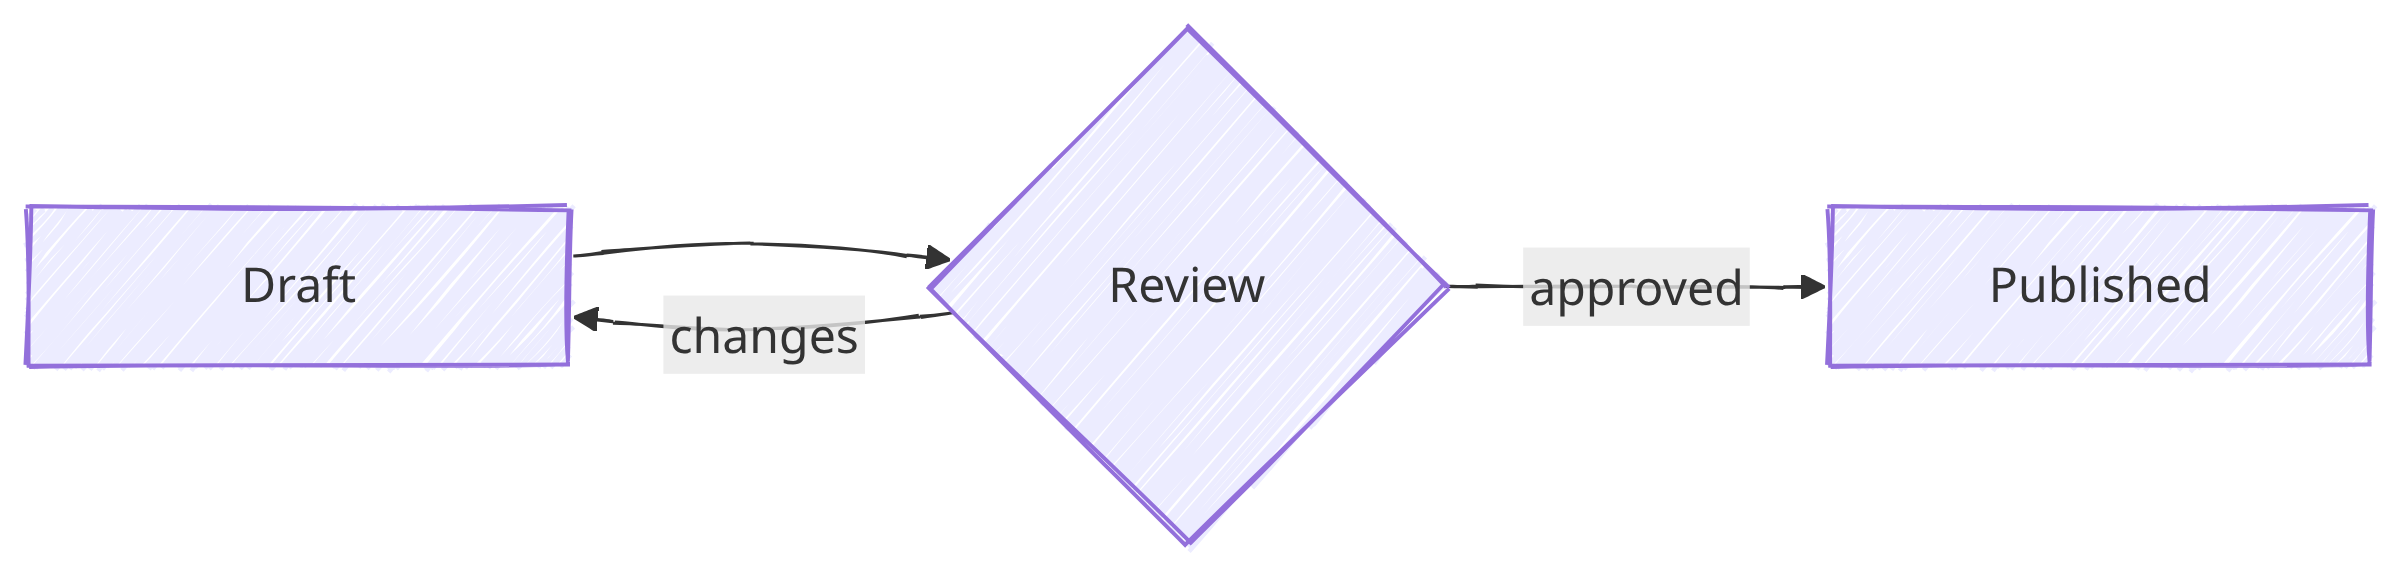
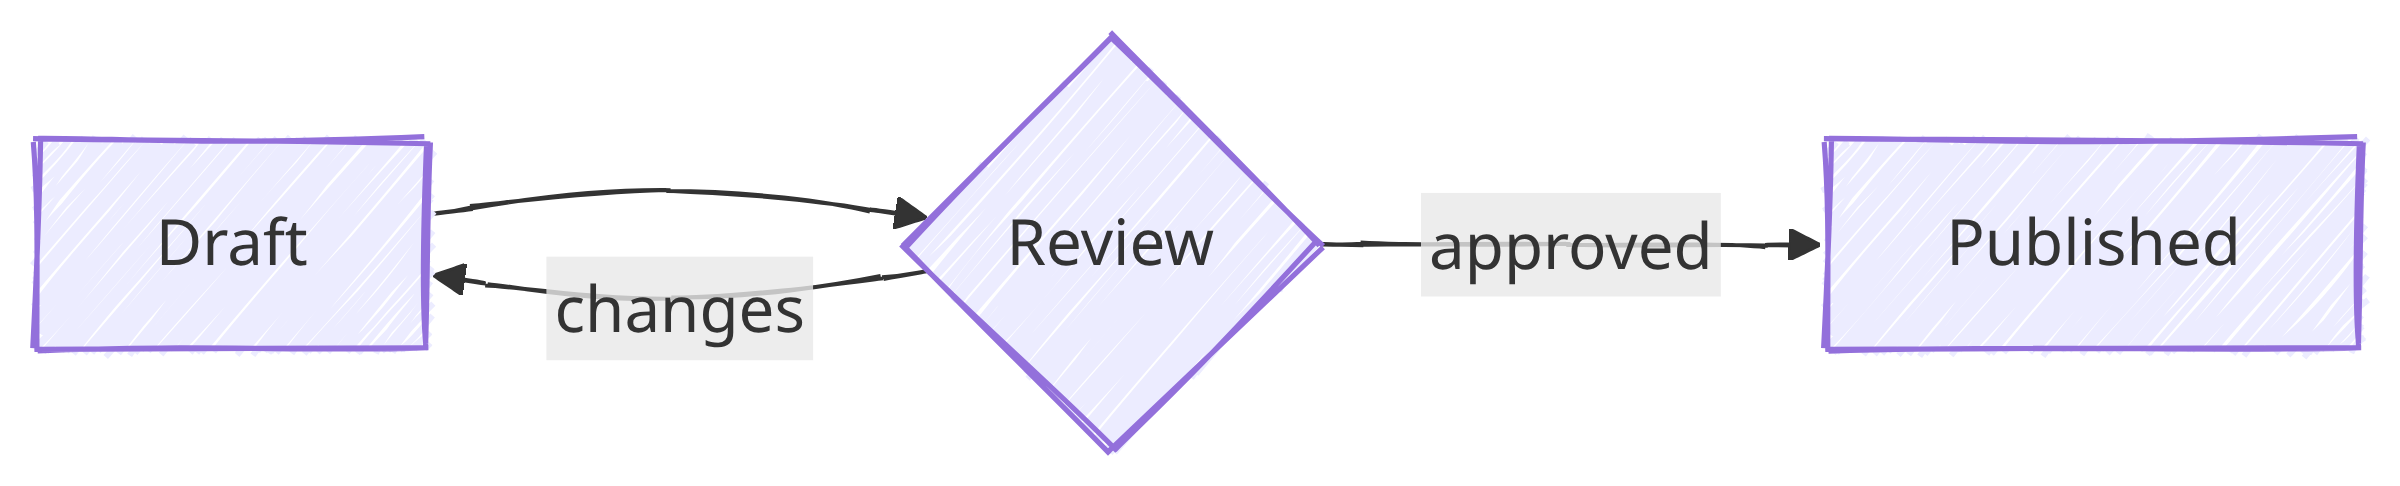
Fix shrunken lettering in mermaid 12 flowcharts (#42)
mermaid 12's minNodeWidth widens every label under 120px, so a diagram of short labels grows about a third wider and, at a fixed figure width, its lettering shrinks by a quarter. Pin it to 0 for flowchart and state, the two diagram types that had it before. Samples regenerated.

diff --git a/src/server.js b/src/server.js
@@ -118,6 +118,10 @@ const LAYOUTS = new Set(['dagre', 'elk']);
 // half-transparent rect then lets the edge show through; `themeCSS` makes it
 // opaque. The `default` theme's fill carries its own alpha, so an edge still
 // shows faintly there.
+//
+// `minNodeWidth` widens a short label to 120px by default, which widens the
+// diagram and so, at the width the wrapper gives it, shrinks its lettering. 0
+// fits each node to its text.
 function houseStyle() {
   return {
     theme: PROJECT_THEME,
@@ -127,6 +131,8 @@ function houseStyle() {
     htmlLabels: false,
     themeCSS: '.edgeLabel rect{opacity:1}',
     themeVariables: { fontFamily: PROJECT_FONT },
+    flowchart: { minNodeWidth: 0 },
+    state: { minNodeWidth: 0 },
   };
 }
 
